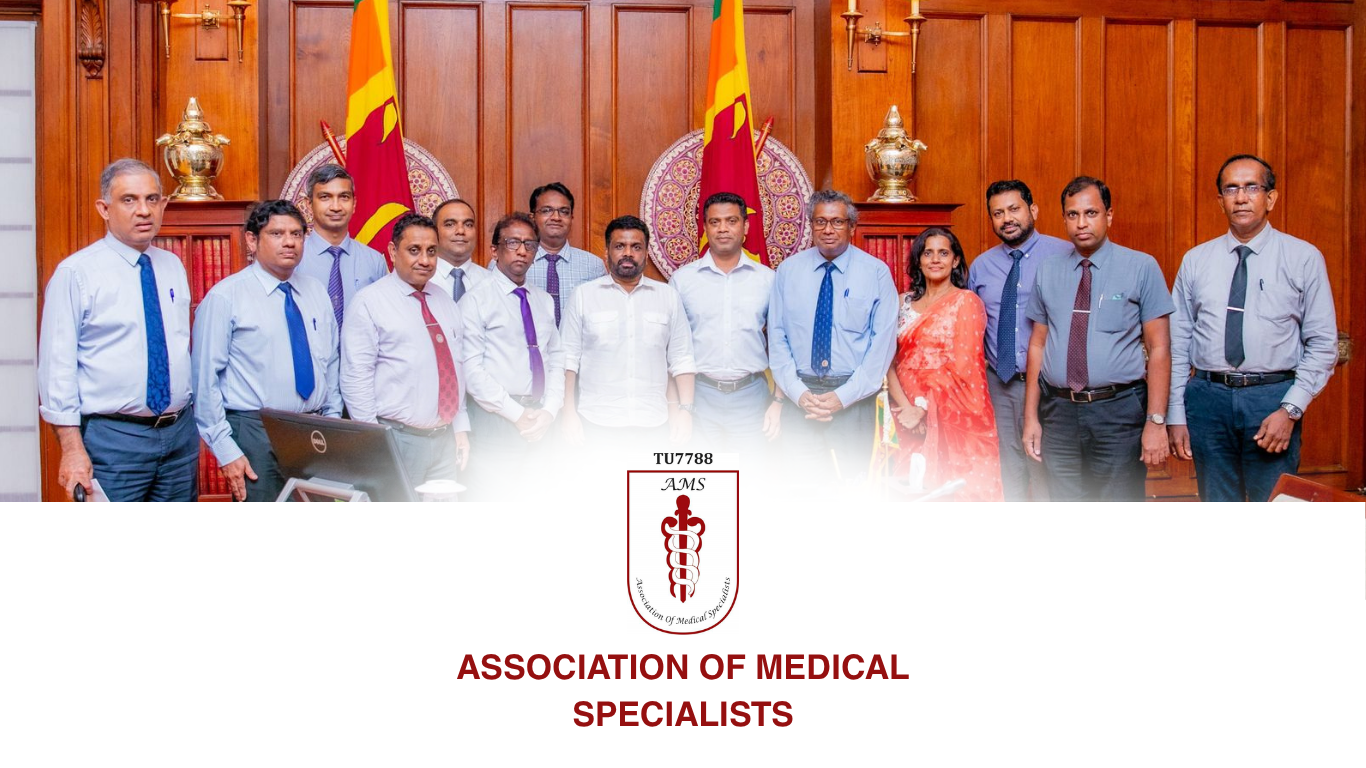
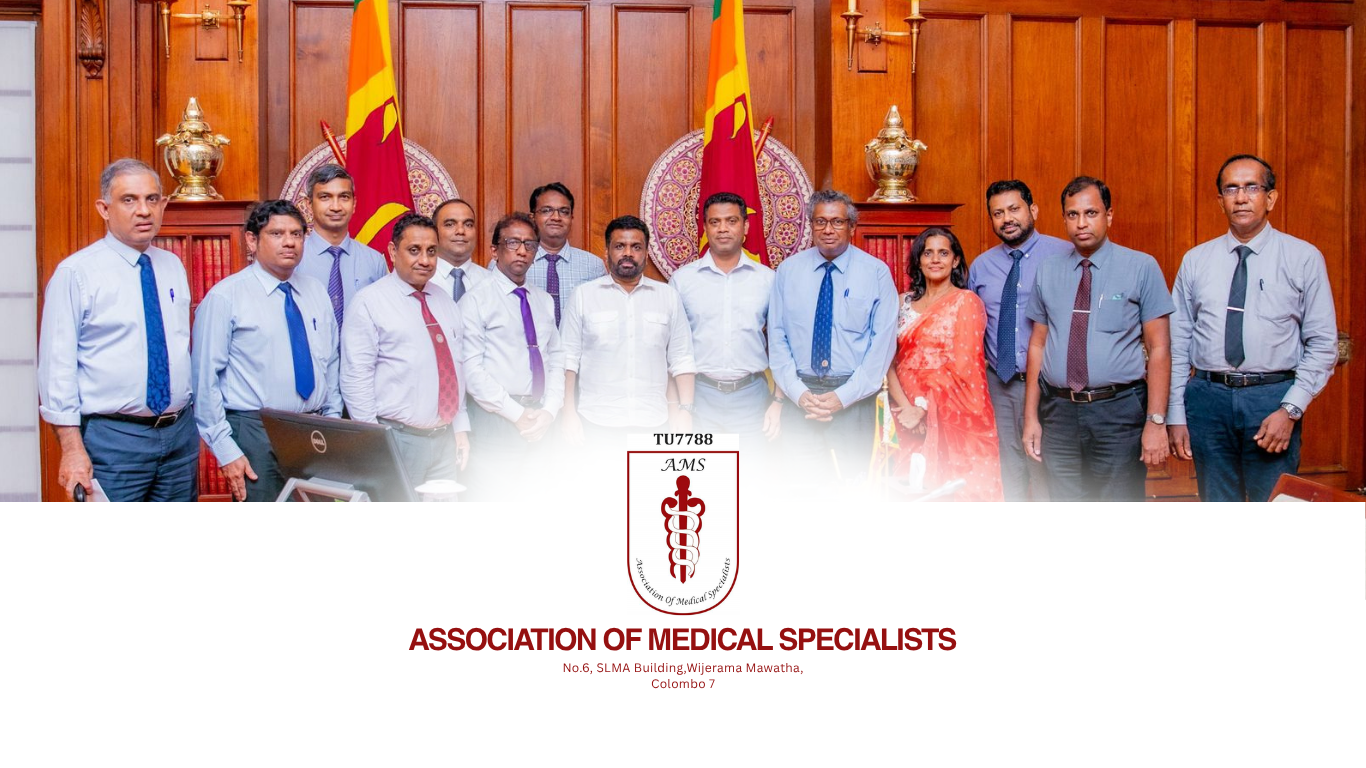
completing home page

Changed region(s): [[0.2767, 0.5625, 0.7072, 0.9688]]

diff --git a/style.css b/style.css
@@ -7,20 +7,6 @@
 .header {
     min-height: 100vh;
     width: 100%;
-    background-image: linear-gradient(rgba(4, 9, 30, 0.7), rgba(4, 9, 30, 0.7)), url(images/banner.png);
-    background-position: center;
-    background-size: cover;
-    position: relative;
-}
-* {
-    margin: 0;
-    padding: 0;
-    font-family: "Poppins", sans-serif;
-}
-
-.header {
-    min-height: 100vh;
-    width: 100%;
     background-image: url(images/Home.png);
     background-position: center;
     background-size: cover;
@@ -277,145 +263,88 @@ h3 {
 
 
 }
-nav {
-    display: flex;
-    padding: 2% 6%;
-    justify-content: space-between;
-    align-items: center;
-}
 
-nav img {
-    width: 80px;
-    border-radius: 100%;
-}
 
-.nav-links {
-    flex: 1;
-    text-align: right;
-}
 
-.nav-links ul li {
-    list-style: none;
-    display: inline-block;
-    padding: 8px 12px;
-    position: relative;
-}
+/* our facilities */
 
-.nav-links ul li a {
-    color: #fff;
-    text-decoration: none;
-    font-size: 15px;
-}
 
-.nav-links ul li::after {
-    content: '';
-    width: 0%;
-    height: 2px;
-    background: #f44336;
-    display: block;
+.facilities {
+    width: 80%;
     margin: auto;
-    transition: 0.5s;
+    text-align: center;
+    padding-top: 80px;
 }
 
-.nav-links ul li:hover::after {
-    width: 100%;
-}
-
-.text-box {
-    width: 90%;
-    color: #fff;
-    position: absolute;
-    top: 50%;
-    left: 50%;
-    transform: translate(-50%, -50%);
+.facilities-col {
+    flex-basis: 31%;
+    border-radius: 10px;
+    margin-bottom: 5%;
     text-align: center;
 }
 
-.text-box h1 {
-    font-size: 62px;
+.facilities-col img {
+    width: 100%;
+    border-radius: 10px;
 }
 
-.text-box p {
-    margin: 10px 0 40px;
-    font-size: 14px;
+.facilities-col p {
+    padding: 0;
+}
+
+.facilities-col h3 {
+    margin-top: 16px;
+    margin-bottom: 15px;
+    text-align: center;
+}
+
+.btn-2{
+    background: #777;
+    margin-top: 35px;
+}
+
+/* --------call to action-------- */
+
+.cta {
+    margin: 100px auto;
+    width: 80%;
+    background-image: linear-gradient(rgba(0, 0, 0, 0.7), rgba(0, 0, 0, 0.7)), url(images/banner.png);
+    background-position: center;
+    background-size: cover;
+    border-radius: 10px;
+    text-align: center;
+    padding: 100px 0;
+}
+
+.cta h1 {
     color: #fff;
-}
-
-.hero-btn {
-    display: inline-block;
-    text-decoration: none;
-    color: #fff;
-    border: 1px solid #fff;
-    padding: 12px 34px;
-    font-size: 13px;
-    background: transparent;
-    position: relative;
-    cursor: pointer;
-}
-
-.hero-btn:hover {
-    border: 1px solid #f44336;
-    background: #f44336;
-    transition: 0.5s;
-}
-
-nav .fa {
-    display: none;
+    margin-bottom: 40px;
+    padding: 0;
 }
 
 @media(max-width: 700px) {
-    .text-box h1 {
-        font-size: 20px;
+    .cta h1 {
+        font-size: 24px;
     }
-
-    .nav-links ul li {
-        display: block;
-    }
-
-    /* .nav-links {
-        position: absolute;
-        background: #f44336;
-        height: 100vh;
-        width: 200px;
-        top: 0;
-        right: -200px;
-        text-align: left;
-        z-index: 2;
-        transition: 1s;
-    } */
-
-    @media (max-width: 700px) {
-        .nav-links {
-            position: fixed;            
-            background: #f44336;
-            height: 100vh;
-            width: 200px;
-            top: 0;
-            right: -200px;            
-            text-align: left;
-            z-index: 1000;
-            transition: 0.5s;
-            padding-top: 60px;
-        }
-    }
-
-    nav .fa {
-        display: block;
-        color: #fff;
-        margin: 10px;
-        font-size: 22px;
-        cursor: pointer;
-    }
-
-    .nav-links ul {
-        padding: 30px;
-    }
-
-    nav img {
-    width: 30px;    
 }
 
-    .nav-links ul li a{
-        font-size: 13px;
-    }
+/* --------footer-------- */
+
+.footer {
+    width: 100%;
+    text-align: center;
+    padding: 30px 0;
+}
+
+.footer h4 {
+    margin-bottom: 25px;
+    margin-top: 20px;
+    font-weight: 600;
+}
+
+.icons .fa {
+    color: #f44336;
+    margin: 0 13px;
+    cursor: pointer;
+    padding: 18px 0;
 }

diff --git a/index.html b/index.html
@@ -44,13 +44,13 @@
 
     </section>
 
+
+
     <!-- -------about-------->
 
     <section class="about" data-aos="fade-up">
 
-        
 
-        <!-- <hr> -->
 
         <div class="row">
 
@@ -74,8 +74,76 @@
 
         </div>
 
-    </section>  
-    
+    </section>
+
+    <!-- -------our facilities------ -->
+
+    <section class="facilities">
+
+        <h1>Our Facilities</h1>
+        <!-- <p>Lorem ipsm dolor sit amet, consectetur adipiscing elit.</p> -->
+
+        <div class="row">
+
+            <div class="facilities-col">
+                <img src="images/f1.png">
+                <h3>Schooling</h3>
+                <p>Lorem ipsm dolor sit amet, consectetur adipiscing elit.
+                    Lorem ipsm dolor sit amet, consectetur adipiscing elit.
+                </p>
+                <a href="images/paper.pdf" class="hero-btn btn-2" download>Download</a>
+            </div>
+
+            <div class="facilities-col">
+                <img src="images/f2.png">
+                <h3>Bank Loan</h3>
+                <p>Lorem ipsm dolor sit amet, consectetur adipiscing elit.
+                    Lorem ipsm dolor sit amet, consectetur adipiscing elit.
+                </p>
+                <a href="images/paper.pdf" class="hero-btn btn-2" download>Download</a>
+            </div>
+
+            <div class="facilities-col">
+                <img src="images/f3.png">
+                <h3>AIA Health</h3>
+                <p>Lorem ipsm dolor sit amet, consectetur adipiscing elit.
+                    Lorem ipsm dolor sit amet, consectetur adipiscing elit.
+                </p>
+                <a href="images/paper.pdf" class="hero-btn btn-2" download>Download</a>
+            </div>
+
+        </div>
+
+    </section>
+
+
+    <!--------Call to action-------->
+
+    <section class="cta">
+        <h1>Become a Member</h1>
+        <a href="" class="hero-btn">Apply Now</a>
+    </section>
+
+    <!--------footer-------->
+
+    <section class="footer">
+
+        <h4>Senith Adheesha</h4>
+        <p>Lorem ipsm dolor sit amet, consectetur adipiscing elit.
+            Lorem ipsm dolor sit amet, consectetur adipiscing elit.
+        </p>
+
+        <div class="icons">
+            <i class="fa fa-facebook"></i>
+            <i class="fa fa-twitter"></i>
+            <i class="fa fa-instagram"></i>
+            <i class="fa fa-whatsapp"></i>
+        </div>
+
+        <p>Sen.cyber solutions</p>
+
+    </section>
+
 
     <!-- -------JavaScript for Toggle Menue------ -->
 
